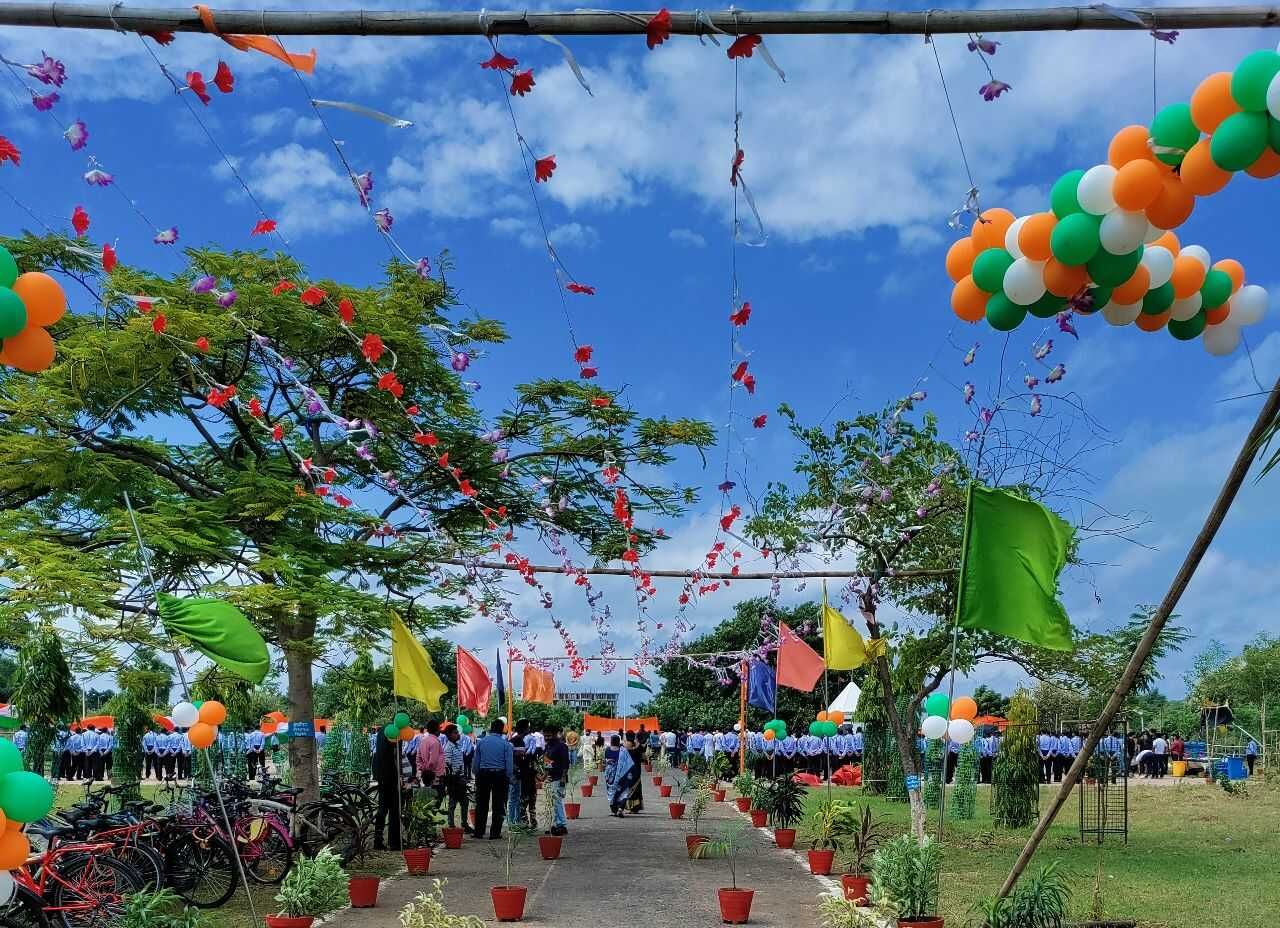
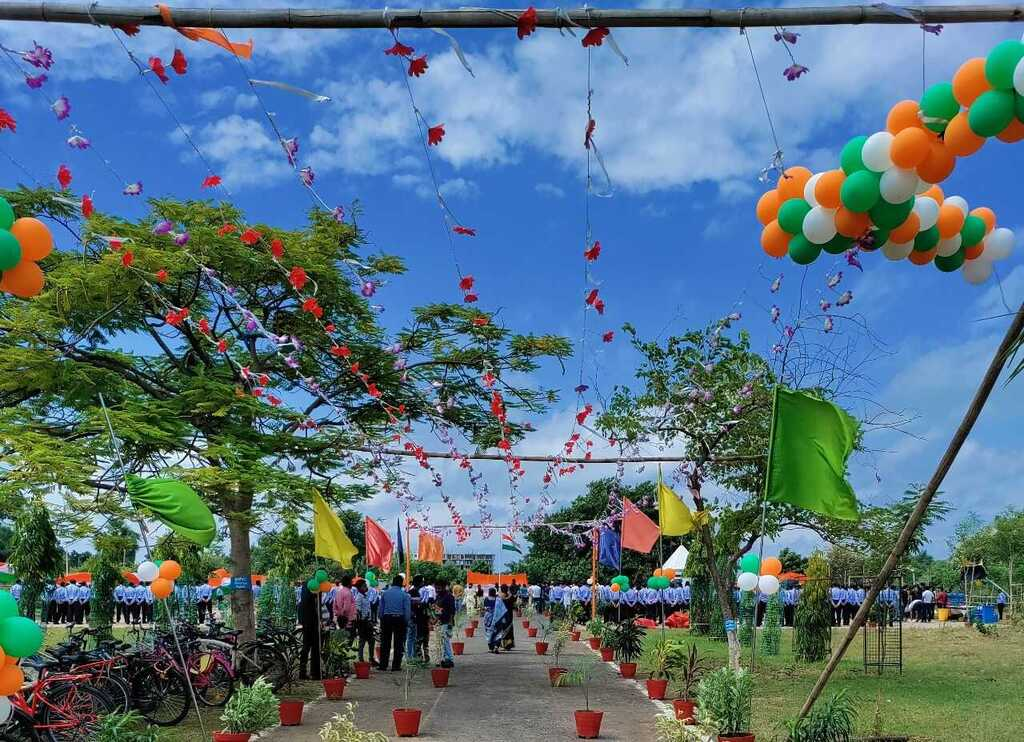
compressed images and fixed bugs

diff --git a/index.html b/index.html
@@ -394,7 +394,7 @@
                  pioneering minds ignite, and innovative ideas come to life.<br>A symphony of
                  inter-disciplinary projects,competitions& research propels budding engineers
                  to new frontiers & shaping the future <br>of technology and spark groundbreaking innovations.
-                 For more details, Visit <a href = "https://drive.google.com/file/d/128dQT1N_URNeYr4zo6f72VthmiS3oWiA/view?usp=sharing"> HERE </a></p>>
+                 For more details, Visit <a href = "https://drive.google.com/file/d/128dQT1N_URNeYr4zo6f72VthmiS3oWiA/view?usp=sharing"> HERE </a></p>
             </div>
             <div class="slide-container swiper" style="display: flex; flex-direction: row; align-items: center; justify-content: center;">
               <div class="button-prev2"
@@ -910,7 +910,7 @@
               <p>A kaleidoscope of culture, where diversity blossoms and connections thrive. From Nebula's warm embrace to festive celebrations and 
                 <br>grand events, HoSCA creates a tapestry of art and entertainment. Unleashing the talents of budding visionaries, it enriches
                 <br> lives and weaves unforgettable moments at IIT Patna.
-                 For more details, Visit <a href = "https://drive.google.com/file/d/1mgy02PG8SEqEWPbyXfpR90wMvAbBpi7I/view?usp=sharing"> HERE </a></p>>
+                 For more details, Visit <a href = "https://drive.google.com/file/d/1mgy02PG8SEqEWPbyXfpR90wMvAbBpi7I/view?usp=sharing"> HERE </a></p>
             </div>
 
             <div class="slide-container swiper" style="display: flex; flex-direction: row; align-items: center; justify-content: center;">

diff --git a/README.md b/README.md
@@ -19,6 +19,15 @@ The official website of Student's gymkhana, IIT Patna
 - [@akhandsinghjr](https://github.com/akhandsinghjr)
 - [@AryanSahoo-2003](https://github.com/AryanSahoo-2003)
 
+## Designers
+- [@Varesh01](https://github.com/Varesh01)
+- [@Senmayank](https://github.com/Senmayank)
+- [@lordkiller123](https://github.com/lordkiller123)
+- [@swastikvish](https://github.com/swastikvish)
+- [@kuhiii](https://github.com/kuhiii)
+- [@AnupriyaGit17](https://github.com/AnupriyaGit17)
+- [@talukdardiksha](https://github.com/talukdardiksha)
+- [@dhrutisubham](https://github.com/dhrutisubham)
 
 [![HTML5](https://img.shields.io/badge/HTML5-E34F26?style=for-the-badge&logo=html5&logoColor=white)](https://developer.mozilla.org/en-US/docs/Glossary/HTML5)
 [![CSS3](https://img.shields.io/badge/CSS3-1572B6?style=for-the-badge&logo=css3&logoColor=white)](https://developer.mozilla.org/en-US/docs/Web/CSS)
@@ -42,4 +51,7 @@ Contributions are always welcome!
 Visit the [issues](https://github.com/aritroCoder/IITP-Gymkhana/issues) section to start Contributing.
 
 Please try to keep the code clean, and understandable by other developers, and get yourself assigned to an issue before you start working on it.
+
+### Note
+If you are adding any new media/images to this website, please follow the [compression guidelines](https://askubuntu.com/questions/781497/how-can-i-compress-images)
 
